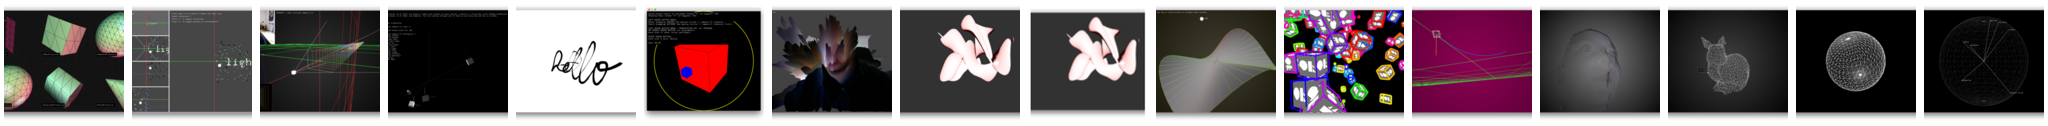
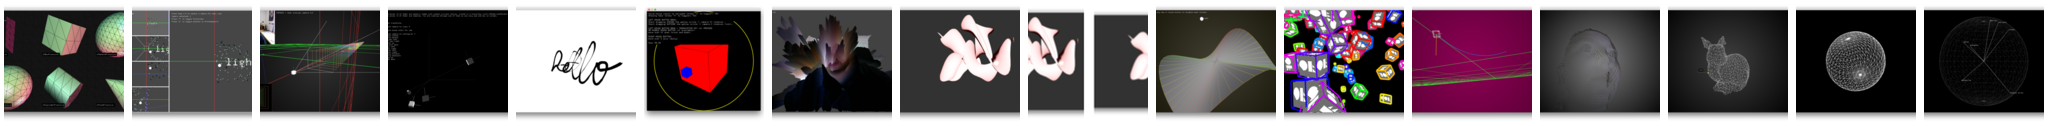
added gl caps

Changed region(s): [[0.5, 0.0714, 0.5625, 0.9286]]

diff --git a/README.md b/README.md
@@ -1,6 +1,8 @@
 # of-example-gallery
 Gallery of OpenFrameworks Example Projects
 
+available
+
 - [3d](3d/README.md)
 
   ![3d montage](3d/montage.png)
@@ -20,11 +22,13 @@ Gallery of OpenFrameworks Example Projects
 - [events](events/README.md)
 
   ![events montage](events/montage.png)
-
+  
+- [gl](gl/README.md)
+ 
+  ![events montage](gl/montage.png)  
 
 in progress
 
-- [gl](gl/README.md)
 - [graphics](graphics/README.md)
 - [gui](gui/README.md)
 - [math](math/README.md)
